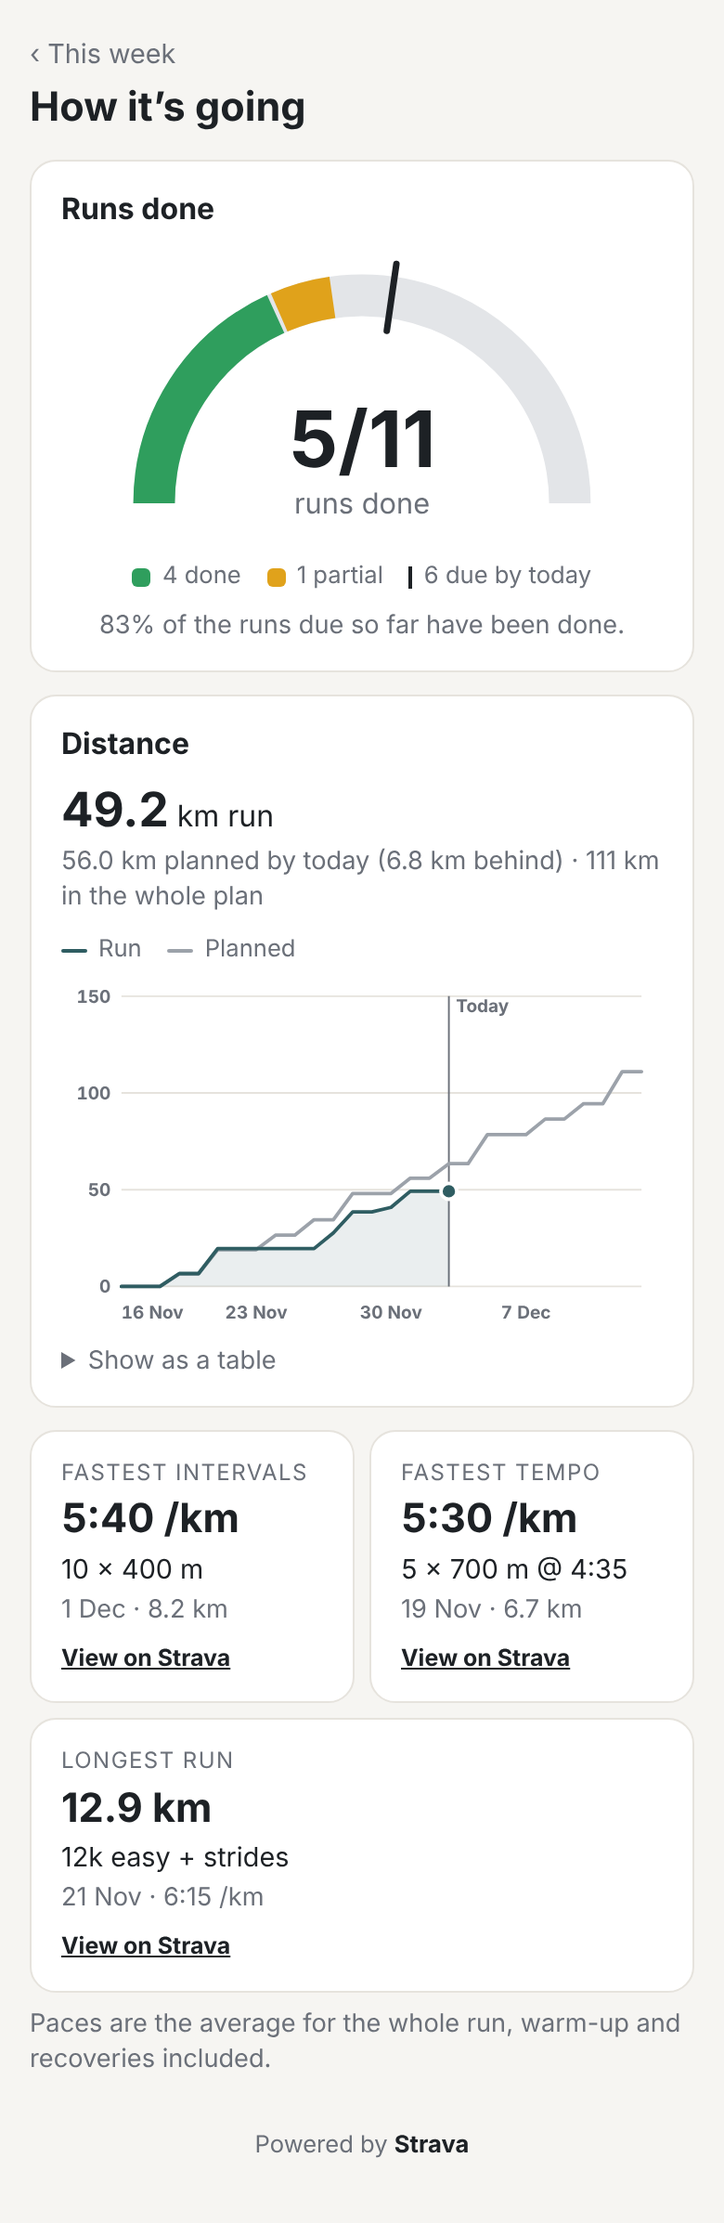
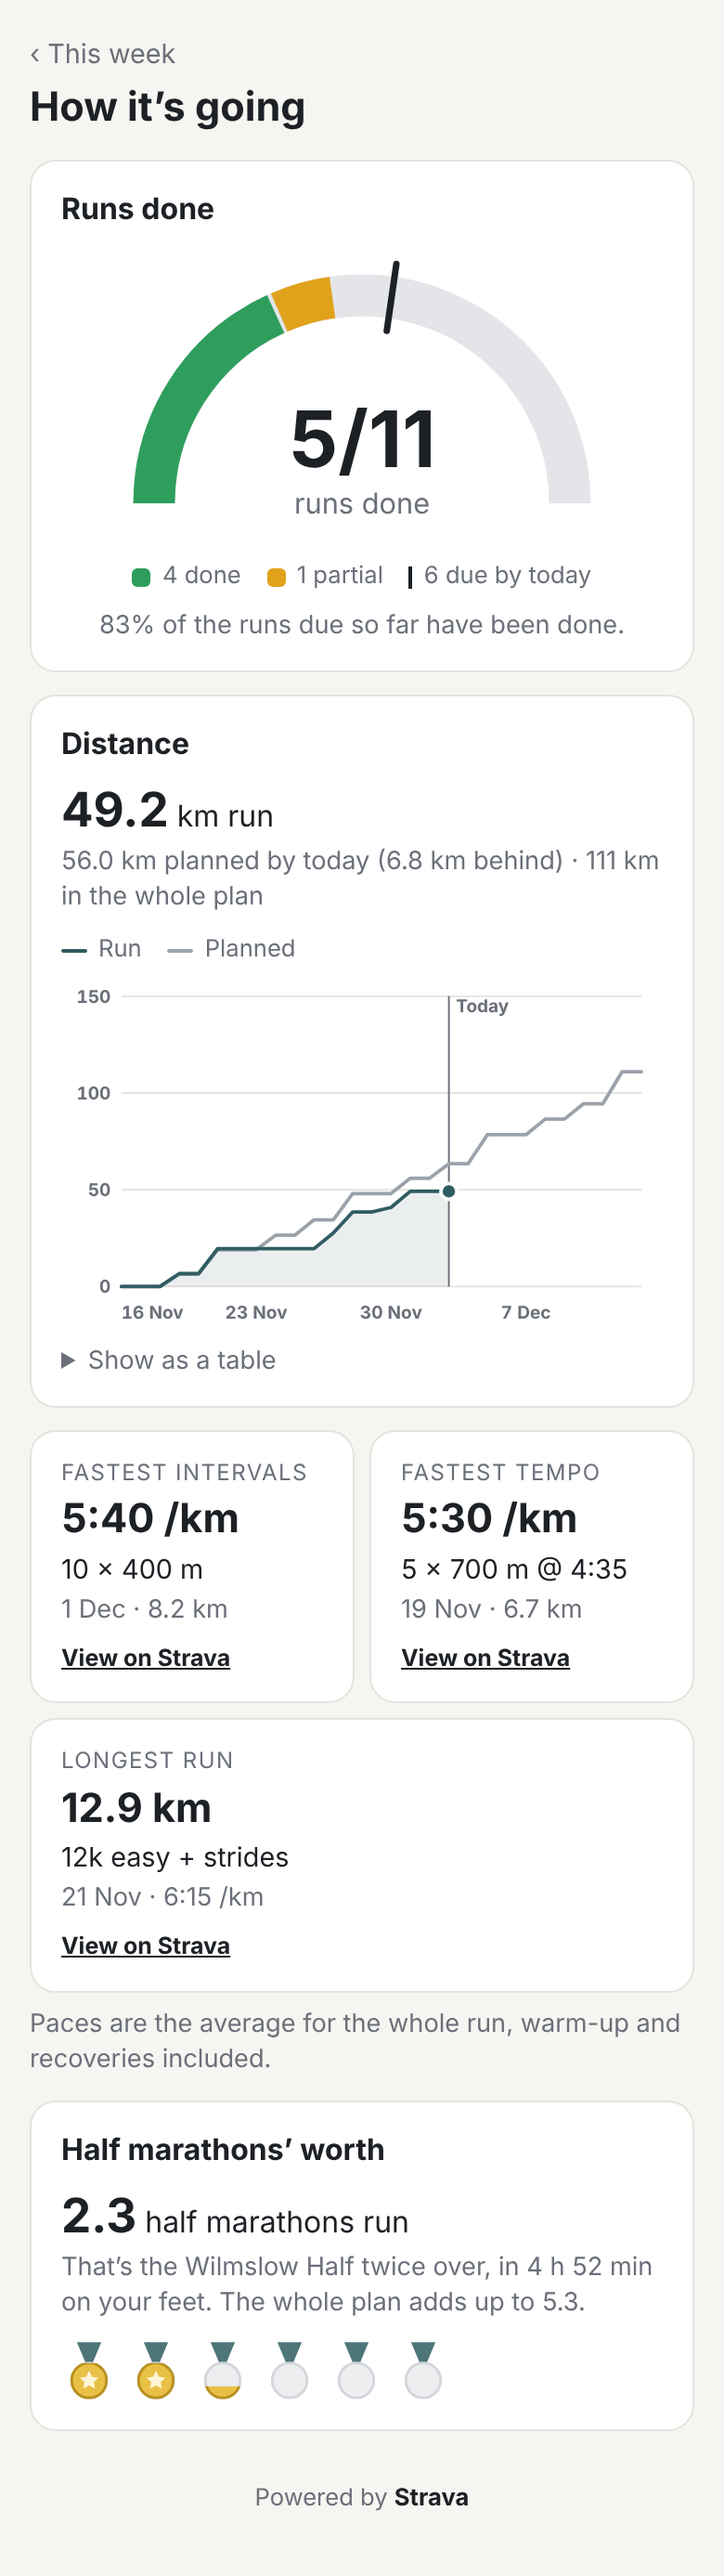
Add half marathons' worth card to the progress page
A row of medals, one per 21.1 km: filled for each half marathon's worth run,
part-filled for the one in progress, with total time on feet.

Claude-Session: https://claude.ai/code/session_017WMbTeU72S8pAimoYAfmya

diff --git a/app/components/ProgressDashboard.tsx b/app/components/ProgressDashboard.tsx
@@ -5,6 +5,7 @@ import { useCallback, useEffect, useState } from "react";
 import { formatKm, formatPace, formatShortDate, stravaUrl } from "@/lib/format";
 import type { ProgressResponse } from "@/lib/progress";
 import {
+  halfMarathons,
   seasonStats,
   type BestRun,
   type DistancePoint,
@@ -100,6 +101,12 @@ export default function ProgressDashboard() {
       <p className="muted small bests-note">
         Paces are the average for the whole run, warm-up and recoveries included.
       </p>
+
+      <MedalCard
+        actualKm={stats.actualToDateKm}
+        plannedKm={stats.plannedTotalKm}
+        timeOnFeetS={stats.timeOnFeetS}
+      />
 
       <PoweredByStrava />
     </main>
@@ -494,4 +501,84 @@ function BestTile({
     </article>
   );
   return tile;
+}
+
+// Half marathons' worth -----------------------------------------------------
+
+const MEDAL_LIMIT = 40; // beyond this, the row would be too long to read
+
+/** "6 h 12 min" from seconds. */
+function formatHours(seconds: number): string {
+  const minutes = Math.round(seconds / 60);
+  const text =
+    minutes < 60
+      ? `${minutes} min`
+      : `${Math.floor(minutes / 60)} h ${minutes % 60} min`;
+  return text;
+}
+
+/** One medal, filled from the bottom up by `fill` (0-1). */
+function Medal({ fill, id }: { fill: number; id: string }) {
+  const clipTop = 33 - 20 * fill; // the disc spans y = 13 to 33
+  const medal = (
+    <svg viewBox="0 0 32 36" className="medal" aria-hidden="true">
+      <path d="M9 1 L14 13 L18 13 L23 1 Z" className="medal-ribbon" />
+      <circle cx="16" cy="23" r="10" className="medal-empty" />
+      {fill > 0 && (
+        <>
+          <clipPath id={id}>
+            <rect x="0" y={clipTop} width="32" height={36 - clipTop} />
+          </clipPath>
+          <circle
+            cx="16"
+            cy="23"
+            r="10"
+            className="medal-gold"
+            clipPath={`url(#${id})`}
+          />
+        </>
+      )}
+      {fill >= 1 && (
+        <path
+          d="M16 17.5 l1.7 3.4 3.7 .5 -2.7 2.6 .7 3.7 -3.4 -1.8 -3.4 1.8 .7 -3.7 -2.7 -2.6 3.7 -.5 z"
+          className="medal-star"
+        />
+      )}
+    </svg>
+  );
+  return medal;
+}
+
+/** Distance run so far, counted in half marathons, as a row of medals. */
+function MedalCard(props: {
+  actualKm: number;
+  plannedKm: number;
+  timeOnFeetS: number;
+}) {
+  const done = halfMarathons(props.actualKm);
+  const planned = halfMarathons(props.plannedKm);
+  const slots = Math.min(Math.ceil(Math.max(done, planned, 1)), MEDAL_LIMIT);
+  const whole = Math.floor(done);
+  const label = `${done.toFixed(1)} half marathons run so far, of ${planned.toFixed(1)} in the whole plan.`;
+  const card = (
+    <section className="card panel medals-card">
+      <h2>Half marathons’ worth</h2>
+      <p>
+        <strong className="figure">{done.toFixed(1)}</strong> half marathons run
+      </p>
+      <p className="muted small">
+        {whole > 0
+          ? `That’s the Wilmslow Half ${whole === 1 ? "once" : whole === 2 ? "twice" : `${whole} times`} over`
+          : `${Math.round(done * 100)}% of the way to your first one`}
+        , in {formatHours(props.timeOnFeetS)} on your feet. The whole plan adds up to{" "}
+        {planned.toFixed(1)}.
+      </p>
+      <div className="medals" role="img" aria-label={label}>
+        {Array.from({ length: slots }, (_, i) => (
+          <Medal key={i} id={`medal-${i}`} fill={Math.min(Math.max(done - i, 0), 1)} />
+        ))}
+      </div>
+    </section>
+  );
+  return card;
 }

diff --git a/lib/stats.ts b/lib/stats.ts
@@ -26,6 +26,8 @@ export interface BestRun {
   activities: Activity[];
 }
 
+export const HALF_MARATHON_KM = 21.0975;
+
 export interface SeasonStats {
   runs: RunCounts;
   distance: DistancePoint[];
@@ -35,6 +37,7 @@ export interface SeasonStats {
   fastestIntervals: BestRun | null;
   fastestTempo: BestRun | null;
   longestRun: BestRun | null;
+  timeOnFeetS: number; // moving time of every run in the plan so far
 }
 
 function round1(km: number): number {
@@ -170,6 +173,15 @@ export function seasonStats(weeks: WeekResult[], today: string): SeasonStats {
     fastestIntervals: fastestSession(weeks, "intervals"),
     fastestTempo: fastestSession(weeks, "tempo"),
     longestRun: longestRun(weeks),
+    timeOnFeetS: weeks
+      .flatMap((w) => w.runs)
+      .reduce((acc, a) => acc + a.movingTimeS, 0),
   };
   return stats;
+}
+
+/** How many half marathons a distance is worth (e.g. 2.33). */
+export function halfMarathons(km: number): number {
+  const count = km / HALF_MARATHON_KM;
+  return count;
 }

diff --git a/tests/stats.test.ts b/tests/stats.test.ts
@@ -4,6 +4,7 @@ import {
   countRuns,
   cumulativeDistance,
   fastestSession,
+  halfMarathons,
   longestRun,
   seasonStats,
 } from "../lib/stats";
@@ -141,5 +142,17 @@ describe("planned distance to date", () => {
     const stats = seasonStats(weeks, "2026-11-24");
     expect(stats.expectedToDateKm).toBe(27);
     expect(stats.actualToDateKm).toBe(31.7);
+  });
+});
+
+describe("half marathons' worth", () => {
+  it("converts km to half marathons", () => {
+    expect(halfMarathons(42.195)).toBeCloseTo(2, 5);
+  });
+
+  it("totals time on feet for every run so far", () => {
+    const stats = seasonStats(weeks, TODAY);
+    const expected = activities.reduce((acc, a) => acc + a.movingTimeS, 0);
+    expect(stats.timeOnFeetS).toBe(expected);
   });
 });

diff --git a/app/globals.css b/app/globals.css
@@ -1181,3 +1181,40 @@ a {
 .bests-note {
   margin-top: 8px;
 }
+
+.medals-card {
+  margin-top: 12px;
+}
+
+.medals {
+  display: flex;
+  flex-wrap: wrap;
+  gap: 6px;
+  margin-top: 10px;
+}
+
+.medal {
+  width: 30px;
+  height: 34px;
+}
+
+.medal-ribbon {
+  fill: var(--accent);
+  opacity: 0.85;
+}
+
+.medal-empty {
+  fill: #eceef0;
+  stroke: #d3d6db;
+  stroke-width: 1.5;
+}
+
+.medal-gold {
+  fill: #e9c046;
+  stroke: #b8901f;
+  stroke-width: 1.5;
+}
+
+.medal-star {
+  fill: #fff6d6;
+}

diff --git a/README.md b/README.md
@@ -25,7 +25,8 @@ matched to planned sessions automatically.
   grey for future weeks. Tap a square to jump to that week.
 - **Progress page.** A dial of runs done out of runs planned (with a tick for how many
   were due by today), cumulative distance run against the plan, and the fastest
-  intervals, fastest tempo and longest run so far. Paces are whole-run averages,
+  intervals, fastest tempo and longest run so far, plus a row of medals counting
+  how many half marathons' worth you've run. Paces are whole-run averages,
   because only Strava's activity summaries are fetched.
 - **Download / upload.** Download the plan with `status` and `actual` filled in, edit
   it elsewhere (e.g. with Claude), and upload it again. Progress is stored by session
